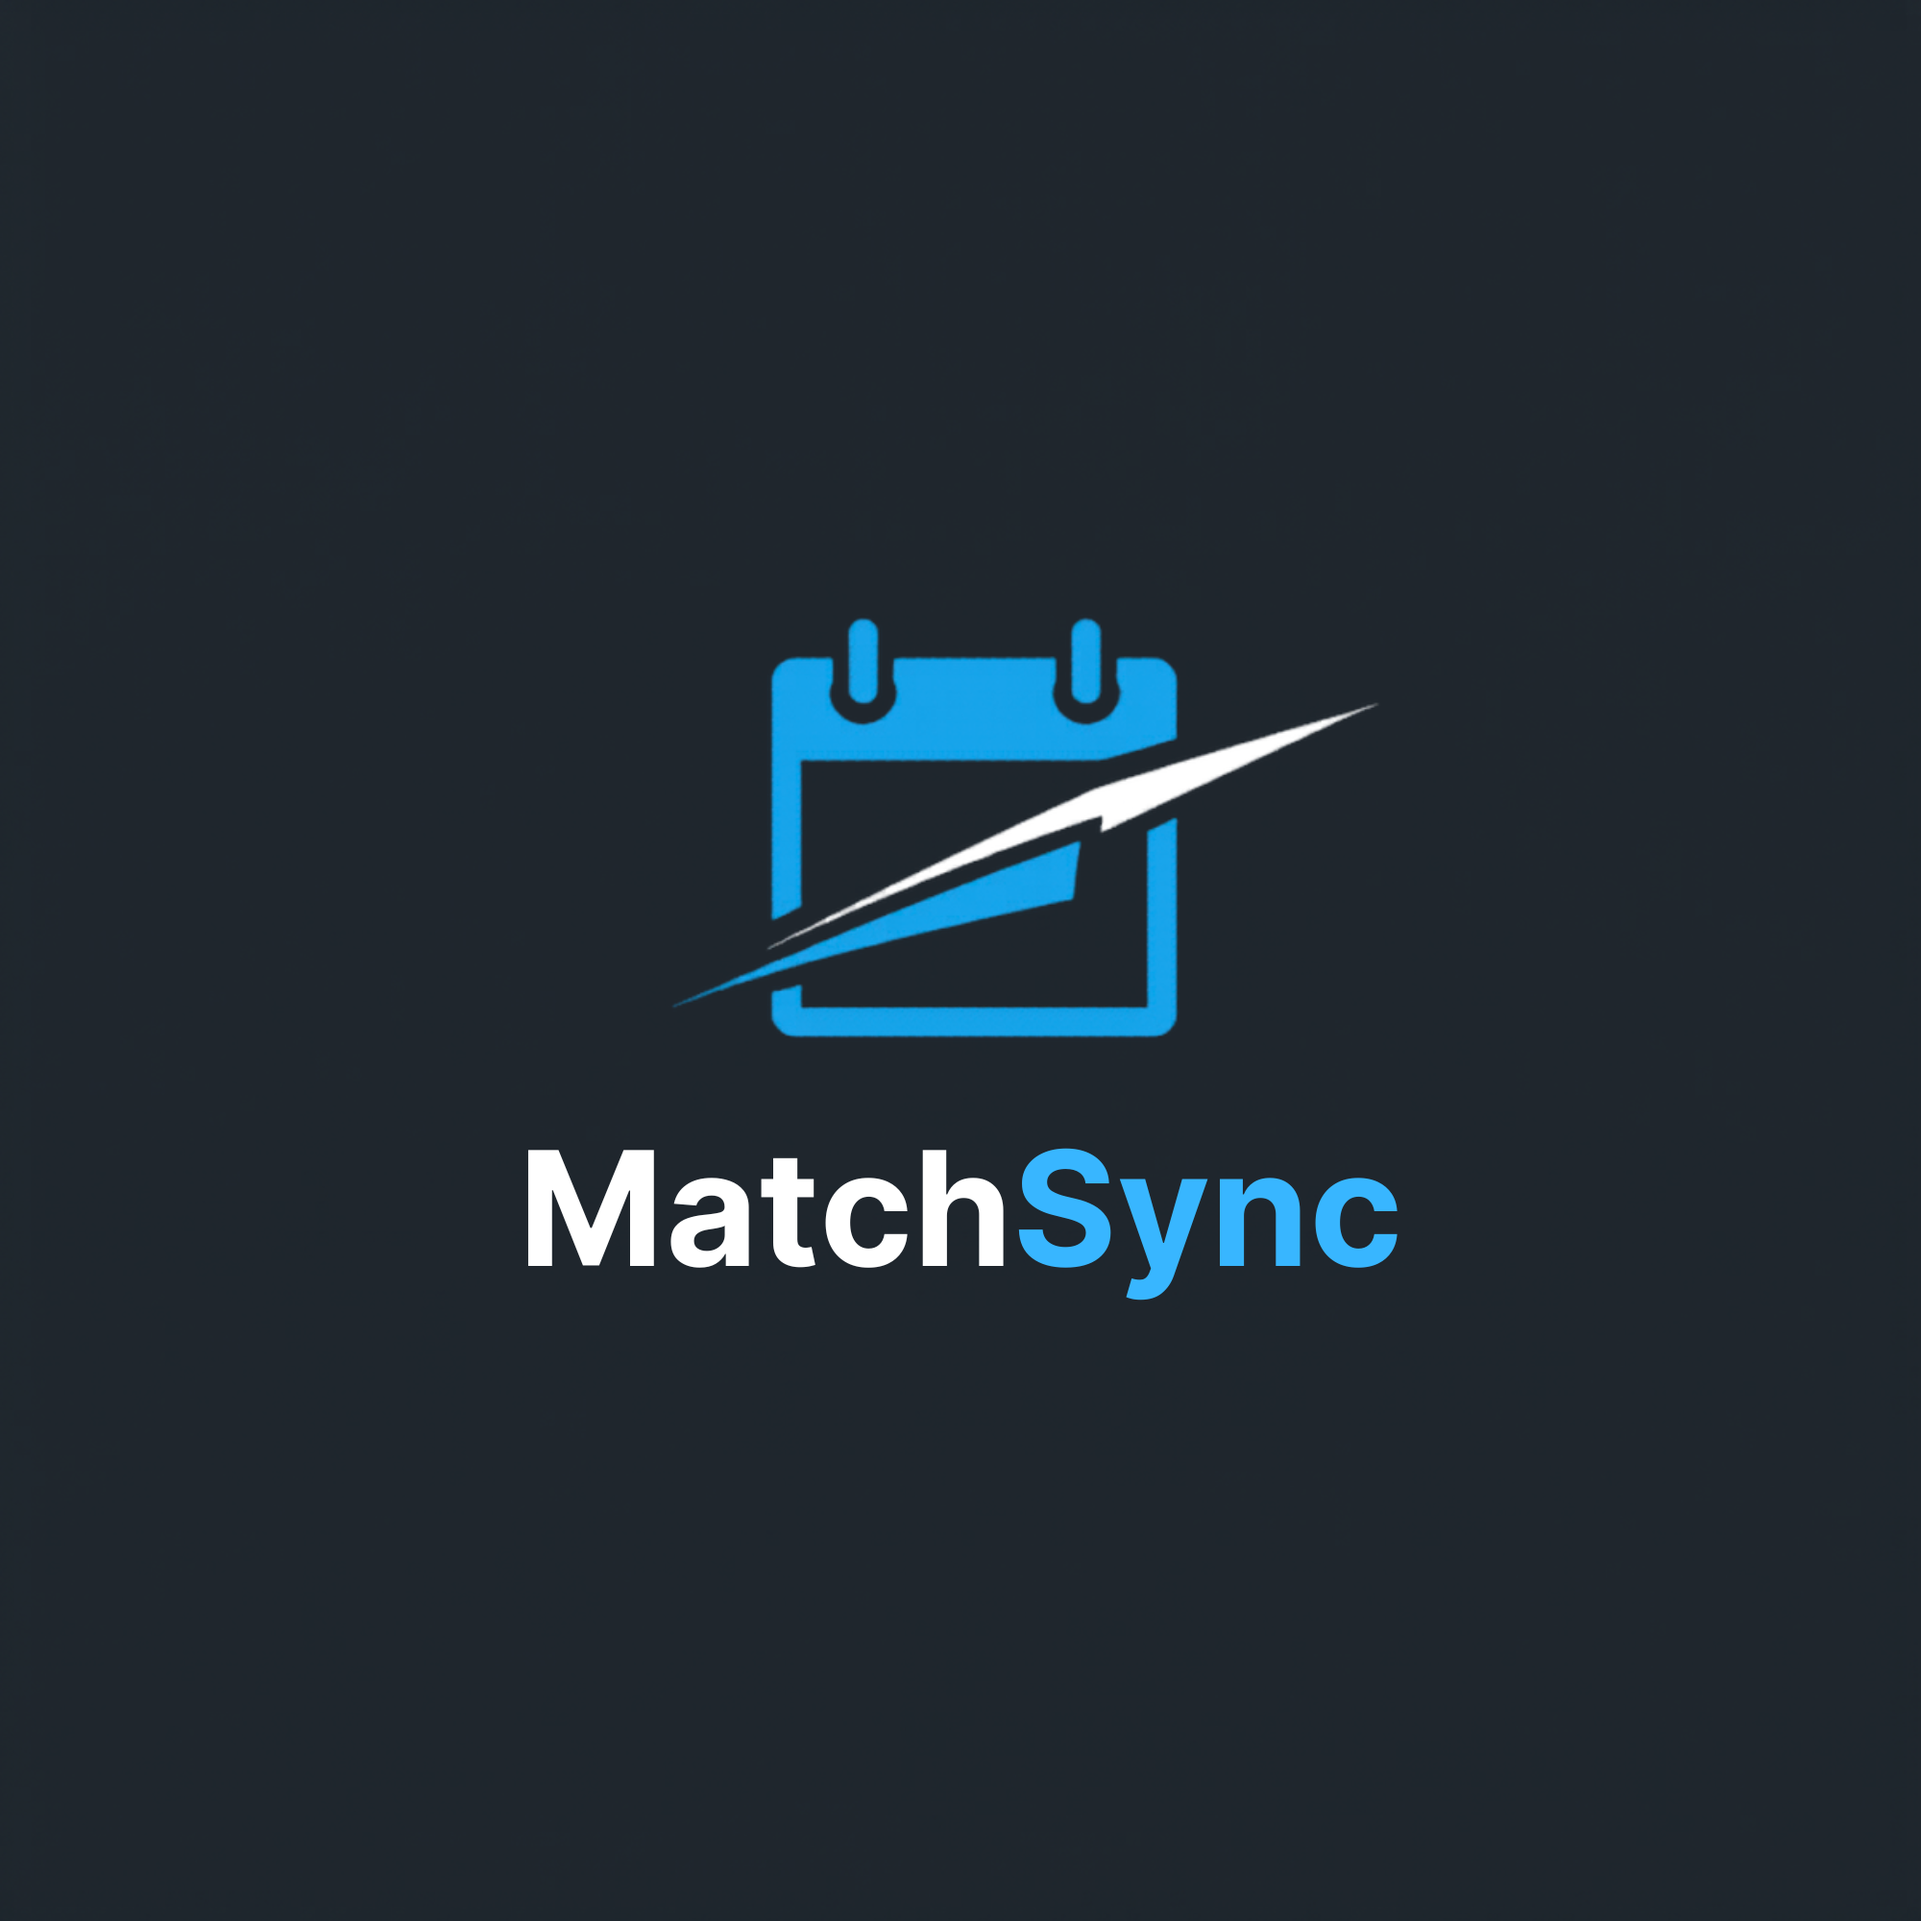
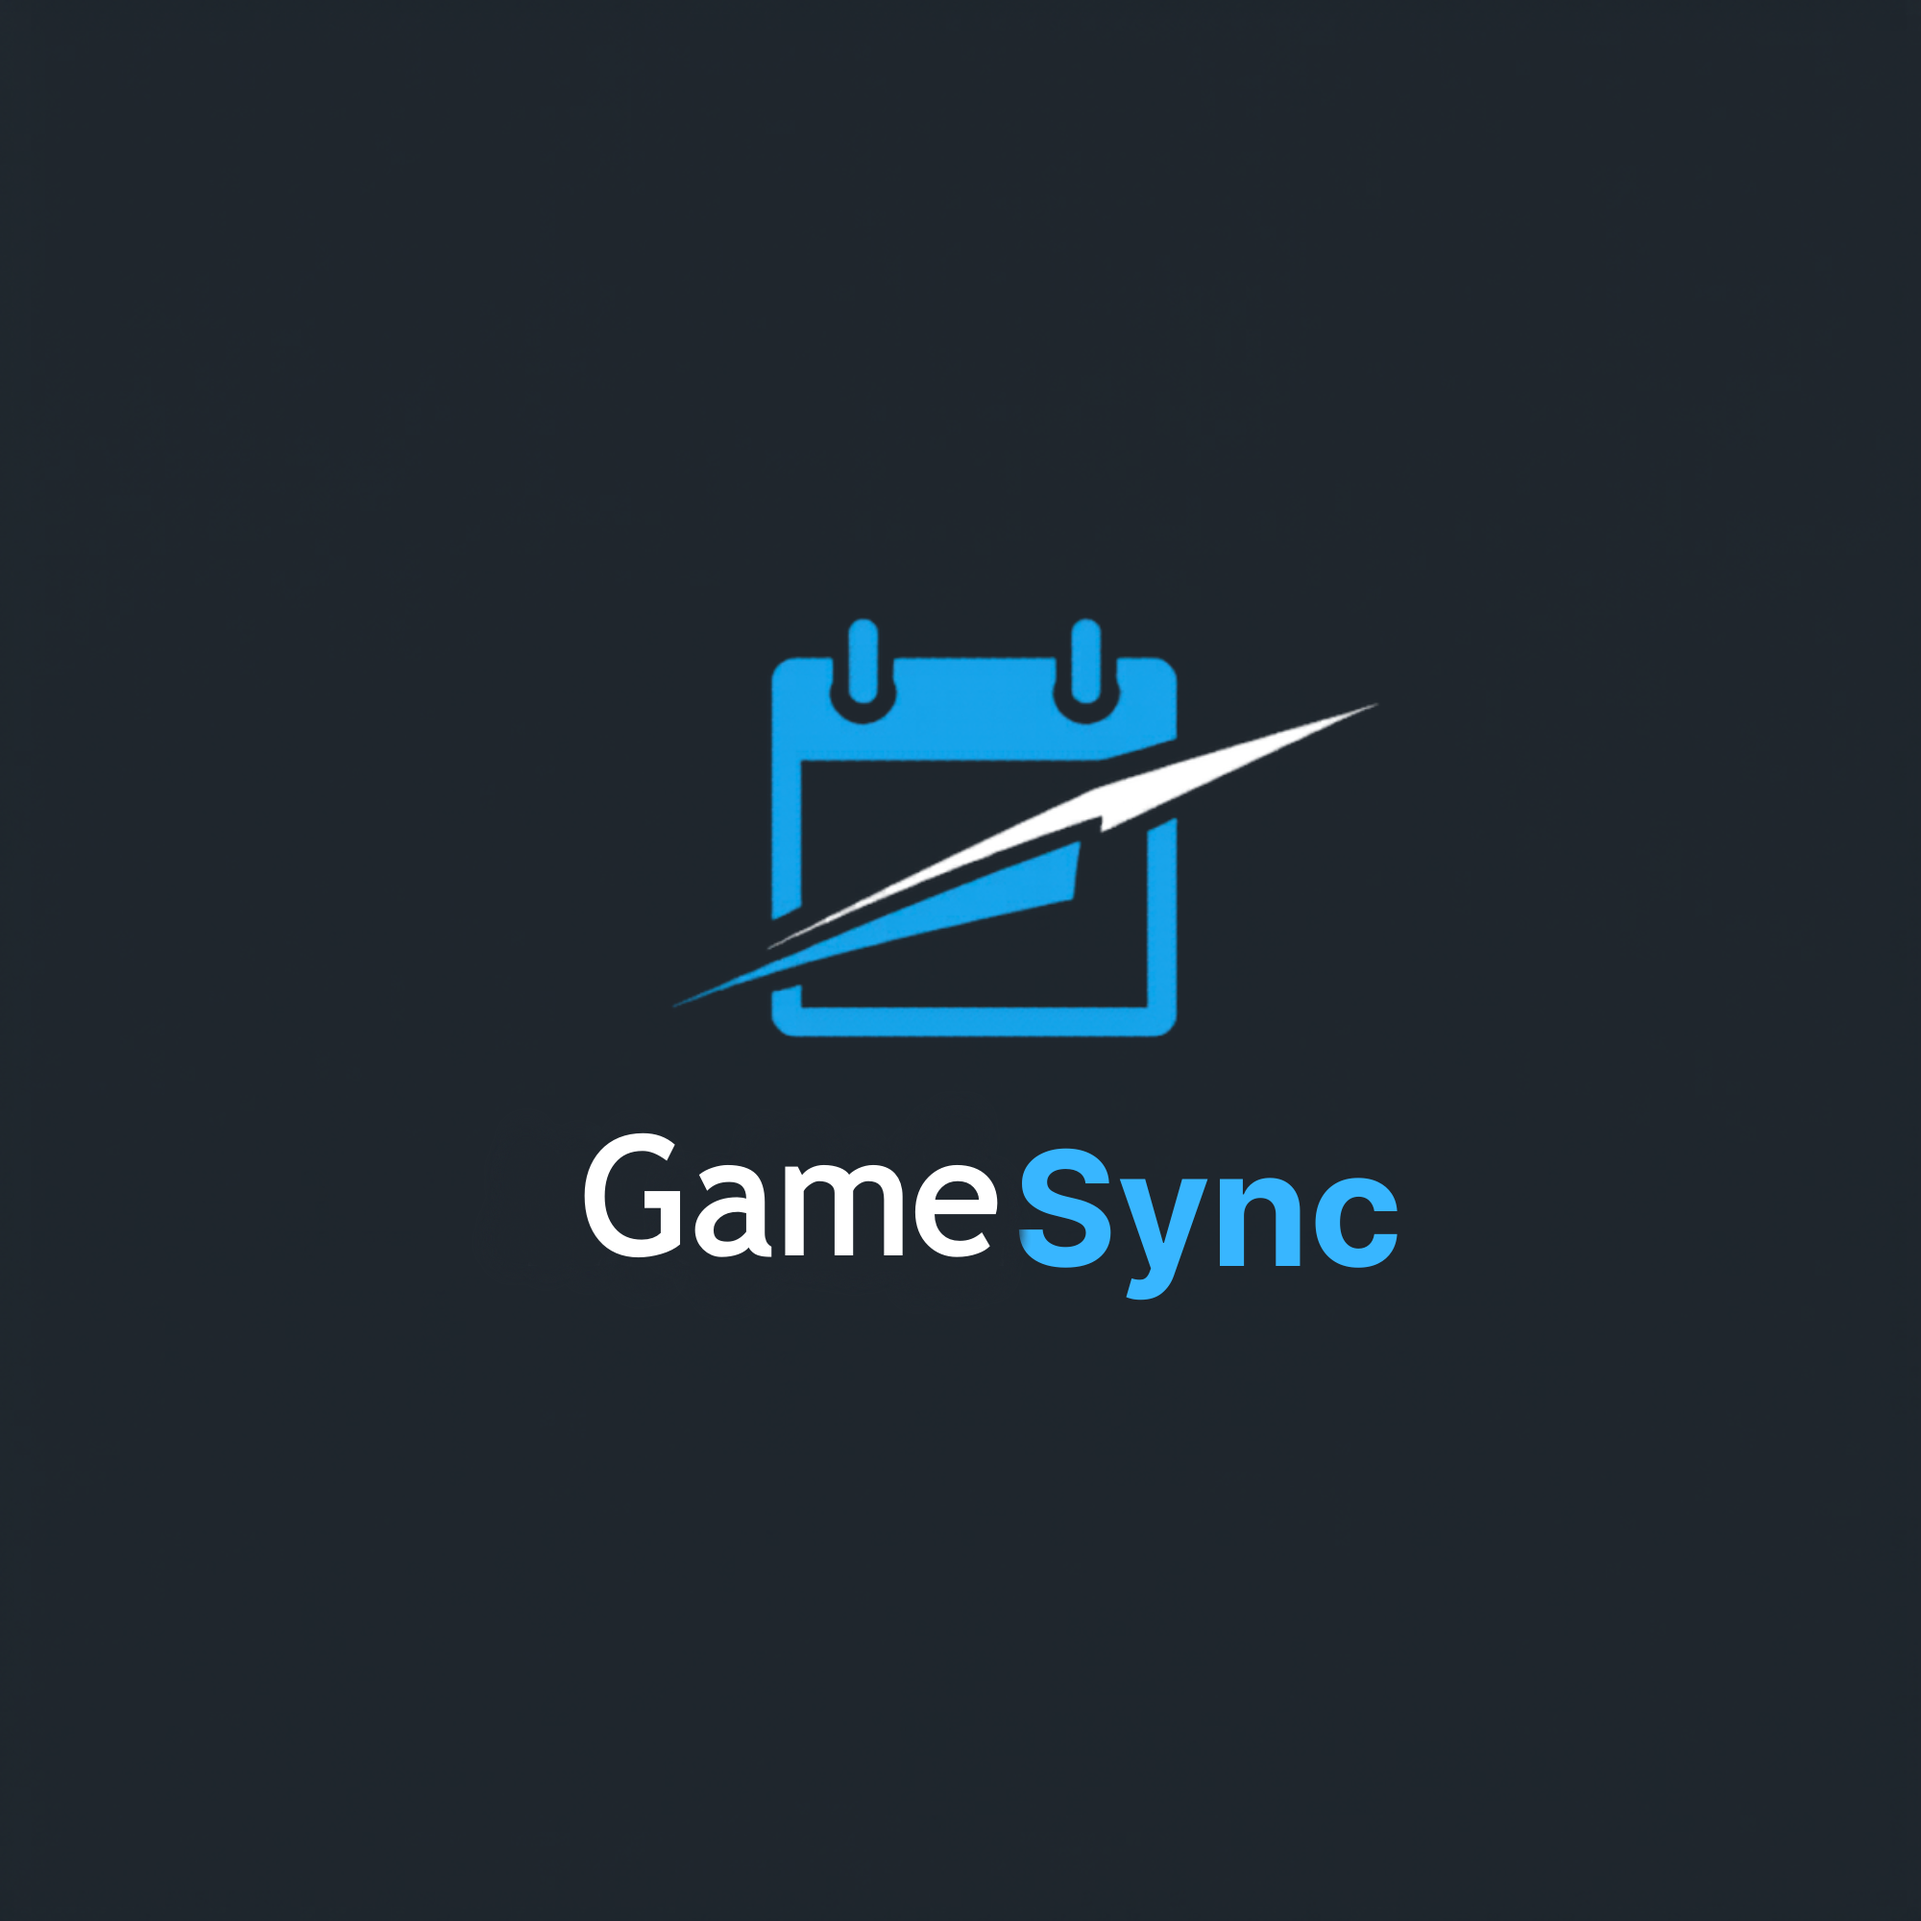
update: match table added back, redesignd nrew name

Changed region(s): [[0.248, 0.589, 0.527, 0.682]]

diff --git a/frontend/src/views/MatchesView.vue b/frontend/src/views/MatchesView.vue
@@ -16,24 +16,6 @@
 
             <!-- Filters -->
             <div class="flex flex-wrap items-center gap-2.5 mb-8">
-                <span
-                    class="flex items-center justify-center w-9 h-9 rounded-full bg-white border border-slate-200 text-slate-400"
-                >
-                    <svg
-                        viewBox="0 0 24 24"
-                        class="w-4 h-4"
-                        fill="none"
-                        stroke="currentColor"
-                        stroke-width="2"
-                        stroke-linecap="round"
-                        stroke-linejoin="round"
-                    >
-                        <line x1="4" y1="6" x2="20" y2="6" />
-                        <line x1="7" y1="12" x2="17" y2="12" />
-                        <line x1="10" y1="18" x2="14" y2="18" />
-                    </svg>
-                </span>
-
                 <!-- League -->
                 <div class="relative">
                     <button
@@ -80,7 +62,7 @@
                     </button>
                     <div
                         v-if="open === 'team'"
-                        class="filter-menu max-h-72 overflow-y-auto"
+                        class="filter-menu right-align max-h-72 overflow-y-auto"
                     >
                         <button
                             class="filter-item"
@@ -185,37 +167,29 @@
 
             <!-- Empty -->
             <div v-else class="text-center py-16">
-                <p class="text-slate-700 font-semibold mb-1">
-                    No matches this week
-                </p>
-                <p class="text-sm text-slate-400">
-                    {{
-                        matches.length
-                            ? "Try the arrows to browse other weeks."
-                            : "No fixtures available for this selection yet."
-                    }}
-                </p>
+                <p class="text-slate-700 font-semibold">No matches this week</p>
             </div>
 
             <!-- Footer CTA -->
             <div
                 v-if="selectedLeague"
-                class="mt-8 bg-white rounded-2xl border border-slate-100 shadow-sm px-5 sm:px-7 py-5 flex flex-col sm:flex-row sm:items-center justify-between gap-4"
+                class="mt-8 bg-white rounded-2xl border border-slate-100 shadow-sm px-5 py-4 flex items-center justify-between gap-4"
             >
-                <div>
-                    <p class="font-bold text-slate-800">
-                        Subscribe to the full {{ selectedLeague.name }} calendar
-                    </p>
-                    <p class="text-sm text-slate-500">
-                        Get every match · including reschedules and playoffs ·
-                        synced automatically.
-                    </p>
+                <div class="flex items-center gap-3 min-w-0">
+                    <div class="flex-shrink-0 w-9 h-9 rounded-xl bg-blue-50 flex items-center justify-center">
+                        <Icon name="calendar" class="!w-4 !h-4 text-[var(--ms-blue)]" />
+                    </div>
+                    <div class="min-w-0">
+                        <p class="font-semibold text-slate-800 text-sm truncate">{{ selectedLeague.name }} calendar</p>
+                        <p class="text-xs text-slate-400">Subscribe once, stay synced forever</p>
+                    </div>
                 </div>
                 <button
-                    class="btn ms-btn-primary rounded-full font-semibold px-5 whitespace-nowrap"
+                    class="flex-shrink-0 flex items-center gap-2 btn ms-btn-primary rounded-full font-semibold px-4 text-sm whitespace-nowrap"
                     @click="openSportModal"
                 >
-                    Get calendar link
+                    <Icon name="link" class="!w-3.5 !h-3.5" />
+                    Get link
                 </button>
             </div>
         </div>
@@ -231,6 +205,7 @@
 
 <script setup lang="ts">
 import { ref, computed, onMounted, watch, h } from "vue";
+import { useRoute, useRouter } from "vue-router";
 import type { League, Match, Sport, Team } from "@/types";
 import {
     fetchSports,
@@ -268,6 +243,9 @@ const ChevronDown = (
 
 type LeagueOption = League & { sport: string; sportLabel: string };
 
+const route = useRoute();
+const router = useRouter();
+
 const sports = ref<Sport[]>([]);
 const selectedLeague = ref<LeagueOption | null>(null);
 const teamOptions = ref<Team[]>([]);
@@ -302,7 +280,7 @@ const selectedTeamName = computed(() => {
 // singleYear: true → show "2026"; false → show "2025/26".
 type SeasonCfg = { threshold: number; atStart: boolean; singleYear: boolean };
 const LEAGUE_SEASON: Record<string, SeasonCfg> = {
-    "premier-league": { threshold: 7, atStart: false, singleYear: false }, // after August
+    "premier-league": { threshold: 4, atStart: false, singleYear: false }, // after May
     "uefa-champions-league": {
         threshold: 4,
         atStart: false,
@@ -353,6 +331,15 @@ function toggle(which: "league" | "team") {
     open.value = open.value === which ? null : which;
 }
 
+function pushQuery(league: LeagueOption | null, team: string | null) {
+    router.replace({
+        query: {
+            league: league?.slug ?? undefined,
+            filter: team ?? undefined,
+        },
+    });
+}
+
 async function selectLeague(opt: LeagueOption) {
     open.value = null;
     if (
@@ -362,18 +349,21 @@ async function selectLeague(opt: LeagueOption) {
         return;
     selectedLeague.value = opt;
     selectedTeamSlug.value = null;
+    pushQuery(opt, null);
     await Promise.all([loadTeams(), loadMatches()]);
 }
 
 function selectTeam(slug: string | null) {
     open.value = null;
     selectedTeamSlug.value = slug;
+    pushQuery(selectedLeague.value, slug);
     loadMatches();
 }
 
 function resetFilters() {
     selectedTeamSlug.value = null;
     weekOffset.value = 0;
+    pushQuery(selectedLeague.value, null);
     loadMatches();
 }
 
@@ -507,9 +497,9 @@ const windowTitle = computed(() => {
     const s = windowStart.value;
     const e = new Date(windowEnd.value.getTime() - DAY);
     const sameMonth = s.getMonth() === e.getMonth();
-    const month = (d: Date) => d.toLocaleDateString([], { month: 'short' })
+    const month = (d: Date) => d.toLocaleDateString([], { month: "short" });
     if (sameMonth) {
-        return `${s.getDate()}–${e.getDate()} ${month(e)}`
+        return `${s.getDate()}–${e.getDate()} ${month(e)}`;
     }
     return `${s.getDate()} ${month(s)} – ${e.getDate()} ${month(e)}`;
 });
@@ -549,10 +539,23 @@ function closeModal() {
 
 onMounted(async () => {
     sports.value = await fetchSports();
-    if (leagueOptions.value.length) {
-        selectedLeague.value = leagueOptions.value[0];
-        await Promise.all([loadTeams(), loadMatches()]);
+    if (!leagueOptions.value.length) return;
+
+    const leagueParam = route.query.league as string | undefined;
+    const filterParam = route.query.filter as string | undefined;
+
+    selectedLeague.value =
+        leagueOptions.value.find((l) => l.slug === leagueParam) ??
+        leagueOptions.value[0];
+
+    await loadTeams();
+
+    if (filterParam && teamOptions.value.some((t) => t.slug === filterParam)) {
+        selectedTeamSlug.value = filterParam;
     }
+
+    await loadMatches();
+    pushQuery(selectedLeague.value, selectedTeamSlug.value);
 });
 
 watch(weekOffset, () => {

diff --git a/frontend/src/components/MatchRow.vue b/frontend/src/components/MatchRow.vue
@@ -1,20 +1,20 @@
 <template>
-  <div class="group flex items-center gap-3 px-4 sm:px-6 py-4 hover:bg-slate-50 transition-colors">
+  <div class="group flex items-center gap-2 sm:gap-3 px-3 sm:px-6 py-4 hover:bg-slate-50 transition-colors">
     <!-- Status -->
-    <div class="w-10 sm:w-12 flex-shrink-0 text-[11px] font-semibold uppercase tracking-wide text-slate-400">
+    <div class="w-8 sm:w-12 flex-shrink-0 text-[10px] sm:text-[11px] font-semibold uppercase tracking-wide text-slate-400">
       {{ leftLabel }}
     </div>
 
     <!-- Home -->
-    <div class="flex-1 flex items-center justify-end gap-2.5 min-w-0">
-      <span class="font-semibold text-slate-800 text-sm text-right truncate">{{ match.home_team }}</span>
-      <TeamBadge :name="match.home_team" :icon="match.home_icon" :size="34" />
+    <div class="flex-1 flex items-center justify-end gap-1.5 sm:gap-2.5 min-w-0">
+      <span class="font-semibold text-slate-800 text-xs sm:text-sm text-right break-words">{{ match.home_team }}</span>
+      <TeamBadge :name="match.home_team" :icon="match.home_icon" :size="badgeSize" />
     </div>
 
     <!-- Score / time -->
     <div class="flex-shrink-0">
       <div
-        class="min-w-[3.25rem] px-2.5 py-1 rounded-lg text-center text-sm font-bold tabular-nums"
+        class="min-w-[2.75rem] sm:min-w-[3.25rem] px-2 sm:px-2.5 py-1 rounded-lg text-center text-xs sm:text-sm font-bold tabular-nums"
         :class="hasScore
           ? 'bg-slate-100 text-slate-800'
           : 'border border-slate-200 text-slate-500'"
@@ -24,16 +24,16 @@
     </div>
 
     <!-- Away -->
-    <div class="flex-1 flex items-center gap-2.5 min-w-0">
-      <TeamBadge :name="match.away_team" :icon="match.away_icon" :size="34" />
-      <span class="font-semibold text-slate-800 text-sm truncate">{{ match.away_team }}</span>
+    <div class="flex-1 flex items-center gap-1.5 sm:gap-2.5 min-w-0">
+      <TeamBadge :name="match.away_team" :icon="match.away_icon" :size="badgeSize" />
+      <span class="font-semibold text-slate-800 text-xs sm:text-sm break-words">{{ match.away_team }}</span>
     </div>
 
-    <!-- Add to calendar -->
-    <div class="flex-shrink-0 w-9 sm:w-auto">
+    <!-- Add to calendar — hidden on mobile to free up name space -->
+    <div class="hidden sm:flex flex-shrink-0">
       <button
         class="flex items-center gap-1.5 rounded-full border border-slate-200 bg-white text-slate-600 hover:border-[var(--ms-blue)] hover:text-[var(--ms-blue)] transition-all
-               sm:opacity-0 sm:group-hover:opacity-100 px-2 sm:px-3.5 py-2 text-xs font-semibold"
+               sm:opacity-0 sm:group-hover:opacity-100 px-3.5 py-2 text-xs font-semibold"
         title="Add to calendar"
         @click="emit('add', match)"
       >
@@ -65,10 +65,15 @@ const timeLabel = computed(() =>
   kickoff.value.toLocaleTimeString([], { hour: '2-digit', minute: '2-digit', hour12: false }),
 )
 
-const leftLabel = computed(() => (finished.value ? 'FT' : timeLabel.value))
+const leftLabel = computed(() => (finished.value ? 'FT' : ''))
 
 const centerText = computed(() => {
   if (hasScore.value) return `${props.match.home_score}-${props.match.away_score}`
   return finished.value ? '–' : timeLabel.value
 })
+
+// Smaller badges on mobile to give names more room
+const badgeSize = computed(() =>
+  typeof window !== 'undefined' && window.innerWidth < 640 ? 28 : 34,
+)
 </script>

diff --git a/frontend/src/components/Navbar.vue b/frontend/src/components/Navbar.vue
@@ -10,7 +10,7 @@
                     class="h-8 w-8 rounded-lg object-cover"
                 />
                 <span class="font-bold text-lg tracking-tight text-slate-900">
-                    Match<span class="ms-text-accent">Sync</span>
+                    Game<span class="ms-text-accent">Sync</span>
                 </span>
             </RouterLink>
 
@@ -88,8 +88,8 @@ const emit = defineEmits<{ getStarted: [] }>();
 const menuOpen = ref(false);
 
 const tabs = [
-    { label: "", to: "/" }, //home
-    { label: "", to: "/matches" }, //matches
+    { label: "Home", to: "/" }, //home
+    { label: "Matches", to: "/matches?league=fifa-world-cup-2026" }, //matches
 ];
 
 function onMobileCta() {

diff --git a/frontend/src/style.css b/frontend/src/style.css
@@ -145,15 +145,20 @@ body {
 .filter-menu {
     position: absolute;
     top: calc(100% + 6px);
-    left: 50%;
-    transform: translateX(-50%);
+    left: 0;
     z-index: 20;
     min-width: 16rem;
+    max-width: min(20rem, calc(100vw - 1.5rem));
     background: white;
     border: 1px solid #e2e8f0;
     border-radius: 0.9rem;
     box-shadow: 0 10px 30px rgba(15, 23, 42, 0.12);
     padding: 0.35rem;
+}
+
+.filter-menu.right-align {
+    left: auto;
+    right: 0;
 }
 
 .filter-item {
